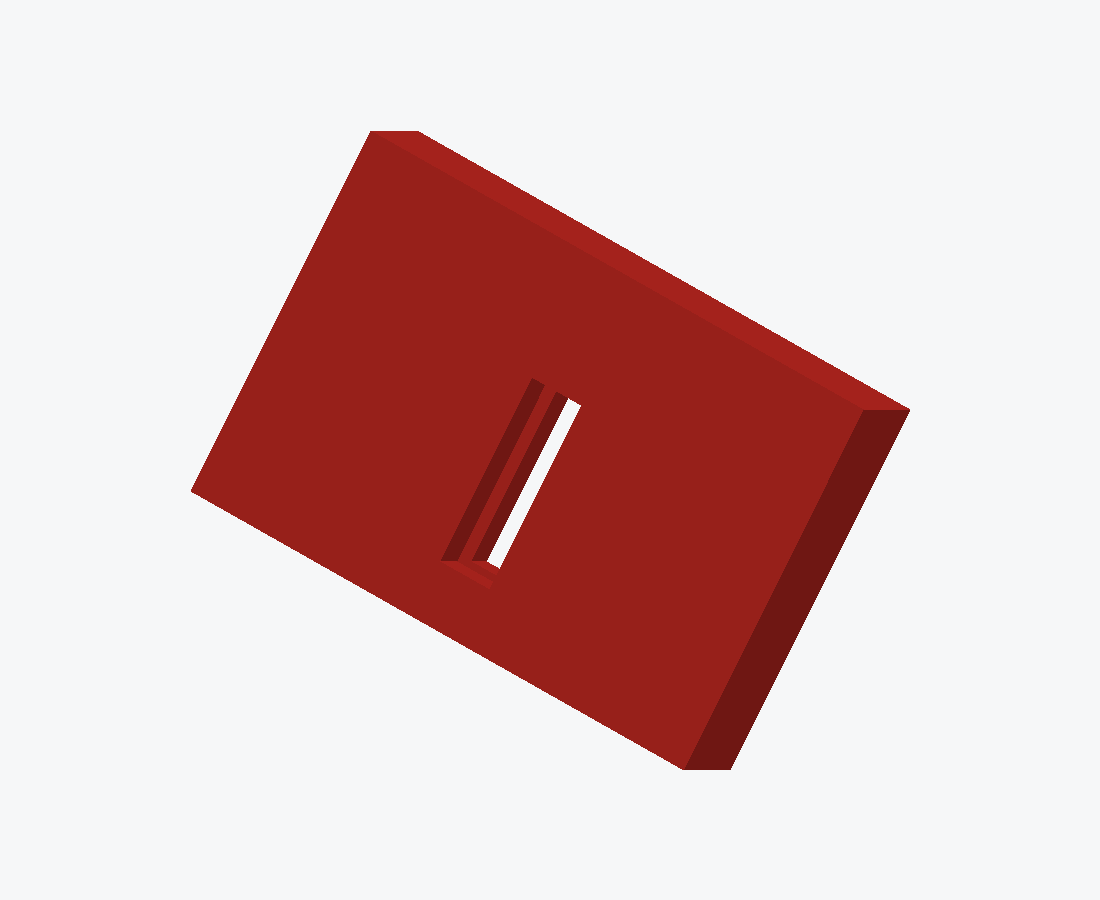
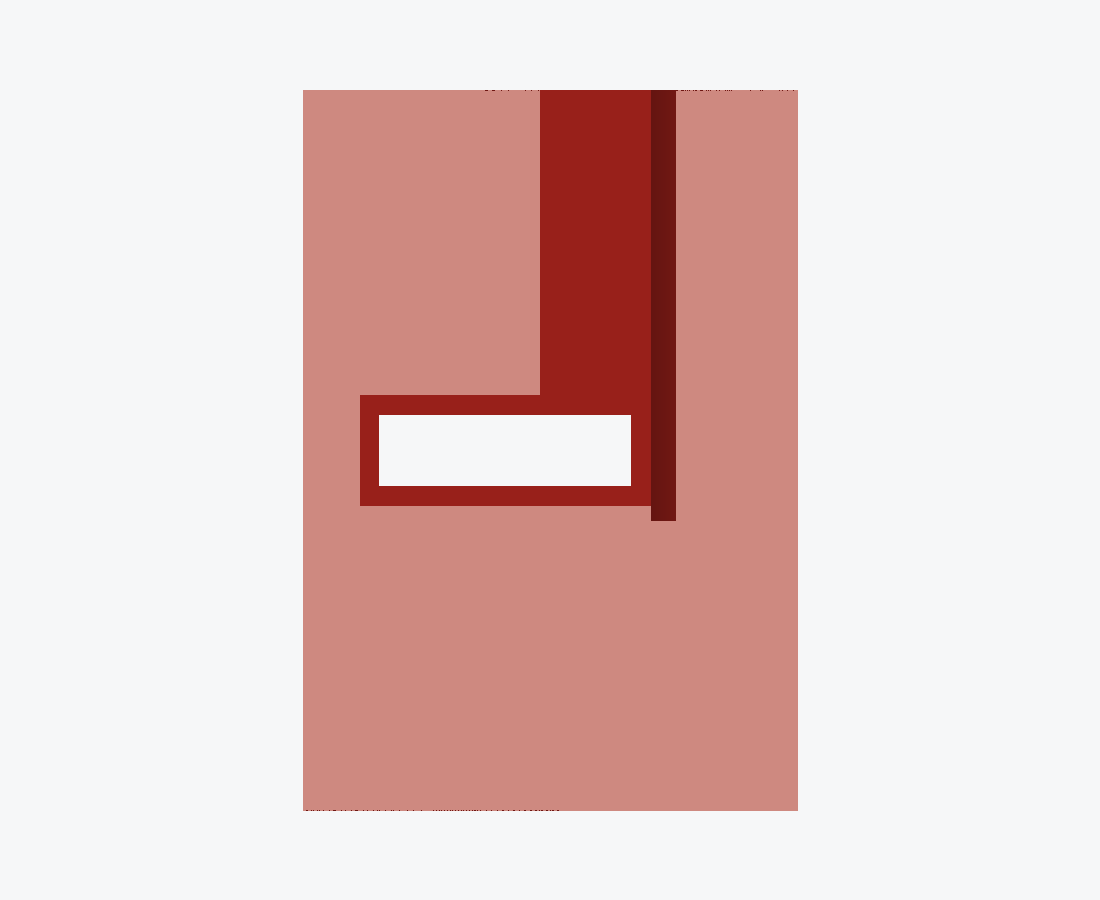
Section renders that show the void: depth fog and a tinted cap
Flat orthographic shading gives a hole whose floor is parallel to the face
around it exactly the tone of that face, so a section along the cavity
showed a plain red rectangle -- 20 mm of entry slot, gone. Cut faces are now
tinted and everything is darkened with depth, so the cavity, the entry rising
from its outboard end and the roof read as the inverted L they are.

Claude-Session: https://claude.ai/code/session_01FoDmXWCBAcNMibAdUqDKQj

diff --git a/docs/index.html b/docs/index.html
@@ -310,8 +310,8 @@
   <h2>What you print</h2>
   <div class="grid-4">
     <figure class="shot"><img src="images/nut_bracket_front.png?v=501ef990" alt="Front of the bracket: a flat face broken only by a horizontal screw slot" loading="lazy" data-zoom><figcaption><b>Front</b>Flat where the board lands.</figcaption></figure>
-    <figure class="shot"><img src="images/nut_bracket_edge.png?v=7d2ea43c" alt="The top edge of the bracket, showing the entry slot the nut drops through" loading="lazy" data-zoom><figcaption><b>Top edge</b>The entry the nut drops through.</figcaption></figure>
-    <figure class="shot"><img src="images/nut_bracket_section.png?v=00ca1341" alt="Section through the bracket showing the nut cavity enclosed behind a solid wall" loading="lazy" data-zoom><figcaption><b>Section</b>Cavity behind the wall.</figcaption></figure>
+    <figure class="shot"><img src="images/nut_bracket_edge.png?v=758ea355" alt="Section along the cavity: the nut drops in from the top edge at the outboard end and slides inboard" loading="lazy" data-zoom><figcaption><b>Along the cavity</b>Drop in at the top, slide inboard.</figcaption></figure>
+    <figure class="shot"><img src="images/nut_bracket_section.png?v=0aa669c8" alt="Section through the bracket showing the nut cavity enclosed behind a solid wall" loading="lazy" data-zoom><figcaption><b>Across the cavity</b>Nut behind the wall, screw through it.</figcaption></figure>
     <figure class="shot"><img src="images/nut_bracket_hooks.png?v=226c0417" alt="Back of the bracket: two blade hooks that enter the upright's slots" loading="lazy" data-zoom><figcaption><b>Back</b>Two hooks take the load.</figcaption></figure>
   </div>
   <model-viewer style="margin-top:1.1rem"

diff --git a/scripts/render_part.py b/scripts/render_part.py
@@ -20,7 +20,14 @@ from PIL import Image
 WIDTH, HEIGHT = 1100, 900
 BACKGROUND = np.array([0.965, 0.969, 0.976])  # matches the page's --bg
 PART_COLOUR = np.array([0.776, 0.165, 0.133])  # the red ASA, sRGB
+CAP_COLOUR = np.array([0.93, 0.62, 0.58])  # cut faces of a section, so voids read
 LIGHT = np.array([0.35, 0.5, 0.79])
+# Surfaces further from the camera are darkened by up to this fraction. Flat
+# orthographic shading gives a hole whose floor is parallel to the surface
+# around it exactly the same tone as that surface, which made a 20 mm deep
+# entry slot vanish entirely; a depth cue is the difference between a
+# drawing of a solid block and a drawing of the part.
+DEPTH_FOG = 0.35
 
 
 def oriented(mesh, azimuth_deg, elevation_deg):
@@ -48,9 +55,12 @@ def shaded(mesh):
 
 
 # pylint: disable-next=too-many-locals
-def render(mesh, azimuth_deg, elevation_deg):
+def render(mesh, azimuth_deg, elevation_deg, is_cap=None):
     """Rasterise the mesh to an RGB array."""
     brightness, triangles = shaded(oriented(mesh, azimuth_deg, elevation_deg))
+    colours = np.tile(PART_COLOUR, (len(triangles), 1))
+    if is_cap is not None:
+        colours[is_cap] = CAP_COLOUR
     flat = triangles.reshape(-1, 3)
     low, high = flat.min(0), flat.max(0)
     span = max(high[0] - low[0], high[1] - low[1]) or 1.0
@@ -89,8 +99,20 @@ def render(mesh, azimuth_deg, elevation_deg):
         if not closer.any():
             continue
         depth[min_y:max_y, min_x:max_x][closer] = z[closer]
-        image[min_y:max_y, min_x:max_x][closer] = PART_COLOUR * brightness[index]
+        image[min_y:max_y, min_x:max_x][closer] = colours[index] * brightness[index]
+    drawn = np.isfinite(depth)
+    if drawn.any():
+        near, far = depth[drawn].max(), depth[drawn].min()
+        fog = 1.0 - DEPTH_FOG * (near - depth[drawn]) / max(near - far, 1e-6)
+        image[drawn] *= fog[:, None]
     return (np.clip(image, 0, 1) * 255).astype(np.uint8)
+
+
+def cap_faces(mesh, axis, at_mm):
+    """Mask of faces lying in the section plane -- the cap, not the part."""
+    column = "xyz".index(axis)
+    on_plane = np.abs(mesh.vertices[:, column] - at_mm) < 1e-4
+    return on_plane[mesh.faces].all(axis=1)
 
 
 def sectioned(mesh, axis, at_mm):
@@ -120,9 +142,11 @@ def main():
     parser.add_argument("--section-at", type=float, default=0.0)
     arguments = parser.parse_args()
     mesh = trimesh.load(arguments.stl, force="mesh")
+    is_cap = None
     if arguments.section_axis:
         mesh = sectioned(mesh, arguments.section_axis, arguments.section_at)
-    Image.fromarray(render(mesh, arguments.azimuth, arguments.elevation)).save(
+        is_cap = cap_faces(mesh, arguments.section_axis, arguments.section_at)
+    Image.fromarray(render(mesh, arguments.azimuth, arguments.elevation, is_cap)).save(
         arguments.png
     )
     print(f"wrote {arguments.png}  extents mm {mesh.extents.round(2)}")

diff --git a/README.md b/README.md
@@ -11,7 +11,7 @@ desk.
 
 <p align="center">
   <img src="docs/images/nut_bracket_front.png" width="31%" alt="Front of the bracket: flat but for the screw slot">
-  <img src="docs/images/nut_bracket_edge.png" width="31%" alt="Outboard edge of the bracket, showing the cavity the nut slides into">
+  <img src="docs/images/nut_bracket_edge.png" width="31%" alt="Section along the cavity: the nut drops in from the top edge and slides inboard">
   <img src="docs/images/nut_bracket_section.png" width="31%" alt="Section through the bracket, showing the nut cavity behind a solid wall">
 </p>
 
